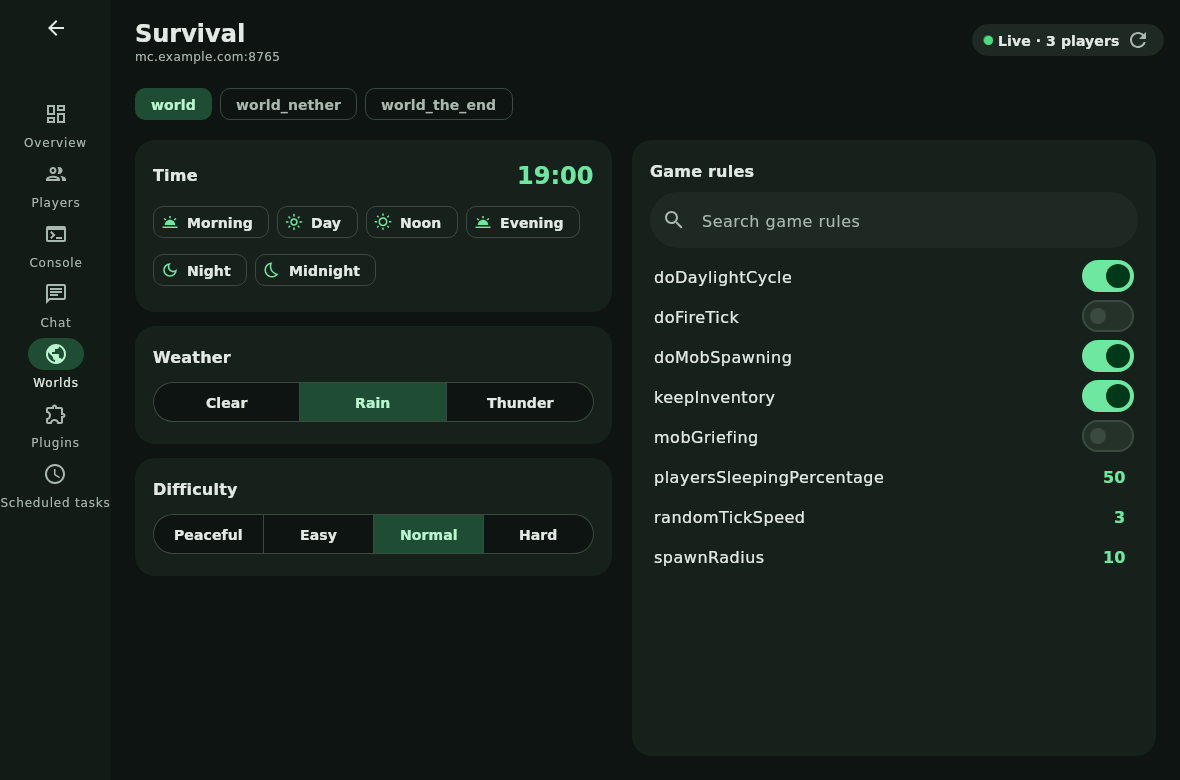
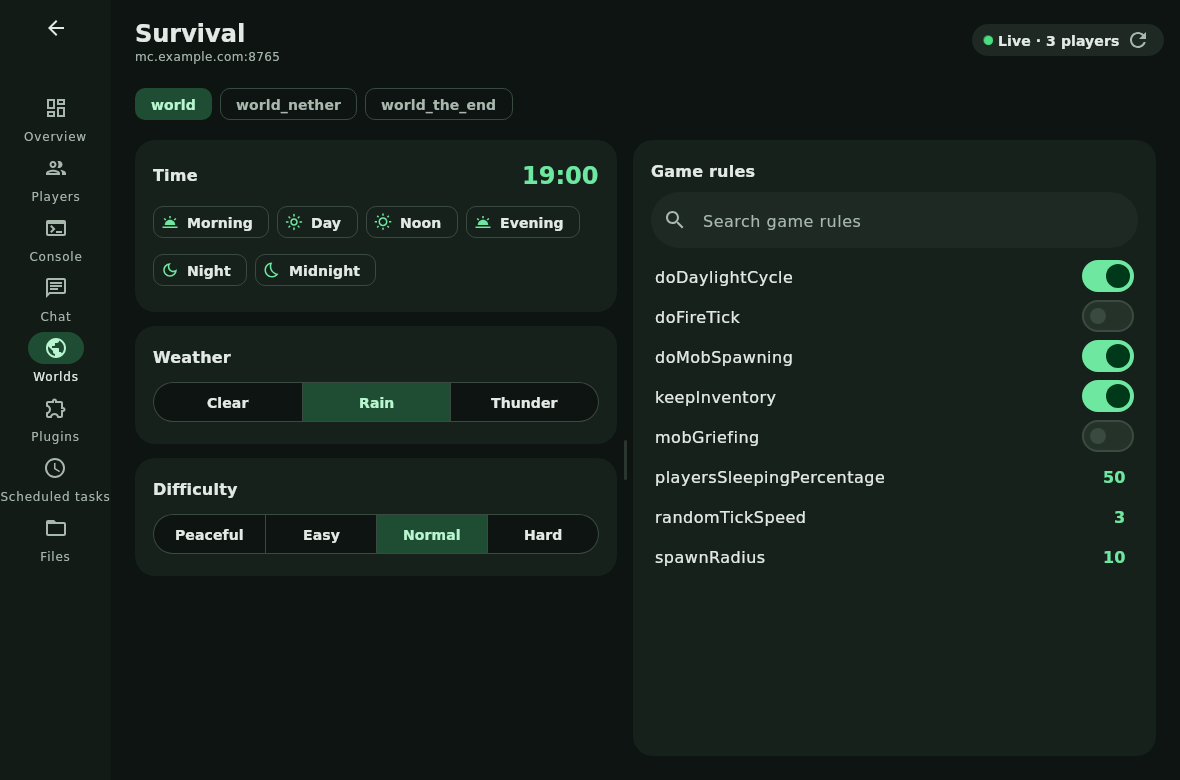
Windows app: resizable split in the file manager and world settings
A divider between the two sides can be dragged (double-click resets it); each side keeps a minimum
width, and the chosen position is remembered (layout.json). Test that drags the divider.

Claude-Session: https://claude.ai/code/session_01REYowLErJNam12YSLSQNL6

diff --git a/desktop-app/src/main/kotlin/de/remotemc/desktop/SplitView.kt b/desktop-app/src/main/kotlin/de/remotemc/desktop/SplitView.kt
@@ -1,0 +1,106 @@
+package de.remotemc.desktop
+
+import androidx.compose.foundation.background
+import androidx.compose.foundation.gestures.Orientation
+import androidx.compose.foundation.gestures.detectTapGestures
+import androidx.compose.foundation.gestures.draggable
+import androidx.compose.foundation.gestures.rememberDraggableState
+import androidx.compose.foundation.hoverable
+import androidx.compose.foundation.interaction.MutableInteractionSource
+import androidx.compose.foundation.interaction.collectIsDraggedAsState
+import androidx.compose.foundation.interaction.collectIsHoveredAsState
+import androidx.compose.foundation.layout.Box
+import androidx.compose.foundation.layout.BoxWithConstraints
+import androidx.compose.foundation.layout.Row
+import androidx.compose.foundation.layout.fillMaxHeight
+import androidx.compose.foundation.layout.fillMaxSize
+import androidx.compose.foundation.layout.height
+import androidx.compose.foundation.layout.width
+import androidx.compose.foundation.shape.CircleShape
+import androidx.compose.material3.MaterialTheme
+import androidx.compose.runtime.Composable
+import androidx.compose.runtime.getValue
+import androidx.compose.runtime.mutableFloatStateOf
+import androidx.compose.runtime.remember
+import androidx.compose.runtime.setValue
+import androidx.compose.ui.Alignment
+import androidx.compose.ui.Modifier
+import androidx.compose.ui.draw.clip
+import androidx.compose.ui.input.pointer.PointerIcon
+import androidx.compose.ui.input.pointer.pointerHoverIcon
+import androidx.compose.ui.input.pointer.pointerInput
+import androidx.compose.ui.platform.LocalDensity
+import androidx.compose.ui.unit.Dp
+import androidx.compose.ui.unit.dp
+import org.json.JSONObject
+import java.awt.Cursor
+import java.io.File
+
+/** Divider positions the user chose, per split view (layout.json next to the settings). */
+object SplitPrefs {
+    /** Screenshot tests turn saving off. */
+    var save = true
+    private val file get() = File(AppDirs.dir, "layout.json")
+    private val data: JSONObject by lazy { runCatching { JSONObject(file.readText()) }.getOrDefault(JSONObject()) }
+
+    fun get(key: String, default: Float): Float = data.optDouble(key, default.toDouble()).toFloat()
+
+    fun set(key: String, value: Float) {
+        data.put(key, value.toDouble())
+        if (save) runCatching { file.writeText(data.toString()) }
+    }
+}
+
+/**
+ * Two areas side by side with a divider the user can drag (double-click resets it). [fraction] is
+ * the left side's share; each side keeps at least its minimum width.
+ */
+@Composable
+fun SplitView(
+    key: String,
+    defaultFraction: Float,
+    modifier: Modifier = Modifier,
+    minLeft: Dp = 240.dp,
+    minRight: Dp = 300.dp,
+    left: @Composable () -> Unit,
+    right: @Composable () -> Unit,
+) {
+    var fraction by remember(key) { mutableFloatStateOf(SplitPrefs.get(key, defaultFraction)) }
+    val density = LocalDensity.current
+    BoxWithConstraints(modifier) {
+        val handle = 16.dp
+        val available = (maxWidth - handle).coerceAtLeast(1.dp)
+        val min = (minLeft / available).coerceIn(0.1f, 0.5f)
+        val max = (1f - minRight / available).coerceIn(0.5f, 0.9f)
+        val shown = fraction.coerceIn(min, max)
+        val drag = rememberDraggableState { delta ->
+            fraction = (fraction.coerceIn(min, max) + with(density) { delta.toDp() } / available).coerceIn(min, max)
+        }
+        val interaction = remember { MutableInteractionSource() }
+        val hovered by interaction.collectIsHoveredAsState()
+        val dragged by interaction.collectIsDraggedAsState()
+        Row(Modifier.fillMaxSize()) {
+            Box(Modifier.width(available * shown).fillMaxHeight()) { left() }
+            Box(
+                Modifier.width(handle).fillMaxHeight()
+                    .pointerHoverIcon(PointerIcon(Cursor(Cursor.E_RESIZE_CURSOR)))
+                    .hoverable(interaction)
+                    .draggable(drag, Orientation.Horizontal, interactionSource = interaction, onDragStopped = { SplitPrefs.set(key, fraction) })
+                    .pointerInput(key) {
+                        detectTapGestures(onDoubleTap = {
+                            fraction = defaultFraction
+                            SplitPrefs.set(key, defaultFraction)
+                        })
+                    },
+                contentAlignment = Alignment.Center,
+            ) {
+                val active = hovered || dragged
+                Box(
+                    Modifier.width(if (active) 4.dp else 3.dp).height(if (active) 64.dp else 40.dp).clip(CircleShape)
+                        .background(if (active) MaterialTheme.colorScheme.primary else MaterialTheme.colorScheme.outlineVariant),
+                )
+            }
+            Box(Modifier.weight(1f).fillMaxHeight()) { right() }
+        }
+    }
+}

diff --git a/desktop-app/src/test/kotlin/de/remotemc/desktop/SplitViewTest.kt b/desktop-app/src/test/kotlin/de/remotemc/desktop/SplitViewTest.kt
@@ -1,0 +1,46 @@
+package de.remotemc.desktop
+
+import androidx.compose.foundation.layout.Box
+import androidx.compose.foundation.layout.fillMaxSize
+import androidx.compose.ui.ExperimentalComposeUiApi
+import androidx.compose.ui.ImageComposeScene
+import androidx.compose.ui.Modifier
+import androidx.compose.ui.geometry.Offset
+import androidx.compose.ui.input.pointer.PointerEventType
+import androidx.compose.ui.unit.Density
+import kotlin.test.Test
+import kotlin.test.assertEquals
+import kotlin.test.assertTrue
+
+@OptIn(ExperimentalComposeUiApi::class)
+class SplitViewTest {
+    @Test
+    fun dividerCanBeDragged() {
+        SplitPrefs.save = false
+        // 1016 px wide: 1000 px for the two sides plus the 16 px handle; the handle starts at 500.
+        val scene = ImageComposeScene(1016, 400, Density(1f)) {
+            SplitView("test-split", 0.5f, Modifier.fillMaxSize(), left = { Box(Modifier.fillMaxSize()) }, right = { Box(Modifier.fillMaxSize()) })
+        }
+        scene.render()
+        var x = 508f
+        scene.sendPointerEvent(PointerEventType.Press, Offset(x, 200f))
+        repeat(10) {
+            x -= 20f
+            scene.sendPointerEvent(PointerEventType.Move, Offset(x, 200f))
+            scene.render()
+        }
+        scene.sendPointerEvent(PointerEventType.Release, Offset(x, 200f))
+        scene.render()
+        val f = SplitPrefs.get("test-split", 0.5f)
+        assertTrue(f in 0.29f..0.31f, "moved 200 px of 1000 to the left: $f")
+
+        // Never narrower than the minimum (240 px of 1000).
+        scene.sendPointerEvent(PointerEventType.Press, Offset(308f, 200f))
+        scene.sendPointerEvent(PointerEventType.Move, Offset(10f, 200f))
+        scene.render()
+        scene.sendPointerEvent(PointerEventType.Release, Offset(10f, 200f))
+        scene.render()
+        assertEquals(0.24f, SplitPrefs.get("test-split", 0.5f), 0.001f)
+        scene.close()
+    }
+}

diff --git a/desktop-app/src/main/kotlin/de/remotemc/desktop/WorldsPane.kt b/desktop-app/src/main/kotlin/de/remotemc/desktop/WorldsPane.kt
@@ -108,8 +108,8 @@ fun WorldsPane(session: ServerSession) {
             return@Column
         }
         loader.error?.let { ErrorLine(it) }
-        Row(Modifier.fillMaxSize(), horizontalArrangement = Arrangement.spacedBy(20.dp)) {
-            Column(Modifier.weight(1f).fillMaxHeight().verticalScroll(rememberScrollState()), verticalArrangement = Arrangement.spacedBy(14.dp)) {
+        SplitView("worlds", 0.48f, Modifier.fillMaxSize(), minLeft = 300.dp, minRight = 260.dp, left = {
+            Column(Modifier.fillMaxSize().verticalScroll(rememberScrollState()), verticalArrangement = Arrangement.spacedBy(14.dp)) {
                 McCard(Modifier.fillMaxWidth()) {
                     Column(Modifier.padding(18.dp), verticalArrangement = Arrangement.spacedBy(8.dp)) {
                         Row(verticalAlignment = Alignment.CenterVertically) {
@@ -155,7 +155,8 @@ fun WorldsPane(session: ServerSession) {
                     }
                 }
             }
-            McCard(Modifier.weight(1.1f).fillMaxHeight().padding(bottom = 24.dp)) {
+        }, right = {
+            McCard(Modifier.fillMaxSize().padding(bottom = 24.dp)) {
                 Column(Modifier.padding(top = 18.dp, start = 18.dp, end = 18.dp)) {
                     Text(stringResource(Res.string.world_gamerules), style = MaterialTheme.typography.titleMedium)
                     Spacer(Modifier.size(10.dp))
@@ -184,7 +185,7 @@ fun WorldsPane(session: ServerSession) {
                     }
                 }
             }
-        }
+        })
     }
 
     editing?.let { rule ->

diff --git a/desktop-app/src/main/kotlin/de/remotemc/desktop/FilesPane.kt b/desktop-app/src/main/kotlin/de/remotemc/desktop/FilesPane.kt
@@ -145,8 +145,8 @@ fun FilesPane(session: ServerSession, initialPath: String = "", initialFile: Str
     }
 
     val uploadTitle = stringResource(Res.string.files_upload)
-    Row(Modifier.fillMaxSize().padding(start = 24.dp, end = 24.dp, bottom = 24.dp), horizontalArrangement = Arrangement.spacedBy(16.dp)) {
-        McCard(Modifier.weight(1f).fillMaxHeight()) {
+    SplitView("files", 0.42f, Modifier.fillMaxSize().padding(start = 24.dp, end = 24.dp, bottom = 24.dp), left = {
+        McCard(Modifier.fillMaxSize()) {
             Column {
                 Row(Modifier.padding(start = 8.dp, end = 8.dp, top = 8.dp), verticalAlignment = Alignment.CenterVertically) {
                     IconButton(onClick = { path = parentPath(path) }, enabled = path.isNotEmpty()) {
@@ -214,7 +214,8 @@ fun FilesPane(session: ServerSession, initialPath: String = "", initialFile: Str
                 }
             }
         }
-        McCard(Modifier.weight(1.3f).fillMaxHeight()) {
+    }, right = {
+        McCard(Modifier.fillMaxSize()) {
             val file = open
             if (file == null) {
                 EmptyState(stringResource(Res.string.files_title), stringResource(Res.string.files_open_failed))
@@ -222,7 +223,7 @@ fun FilesPane(session: ServerSession, initialPath: String = "", initialFile: Str
                 Editor(session, file, onClosed = { open = null })
             }
         }
-    }
+    })
 
     deleting?.let { entry ->
         AlertDialog(

diff --git a/desktop-app/src/test/kotlin/de/remotemc/desktop/ScreenshotTest.kt b/desktop-app/src/test/kotlin/de/remotemc/desktop/ScreenshotTest.kt
@@ -39,6 +39,7 @@ class ScreenshotTest {
 
     init {
         LoadHeads = false
+        SplitPrefs.save = false
         Locale.setDefault(Locale.ENGLISH)
         model.servers.upsert(survival)
         model.servers.upsert(ServerProfile(name = "Creative world", host = "192.168.178.20", port = 8766, token = "x", role = Role.MODERATOR))
